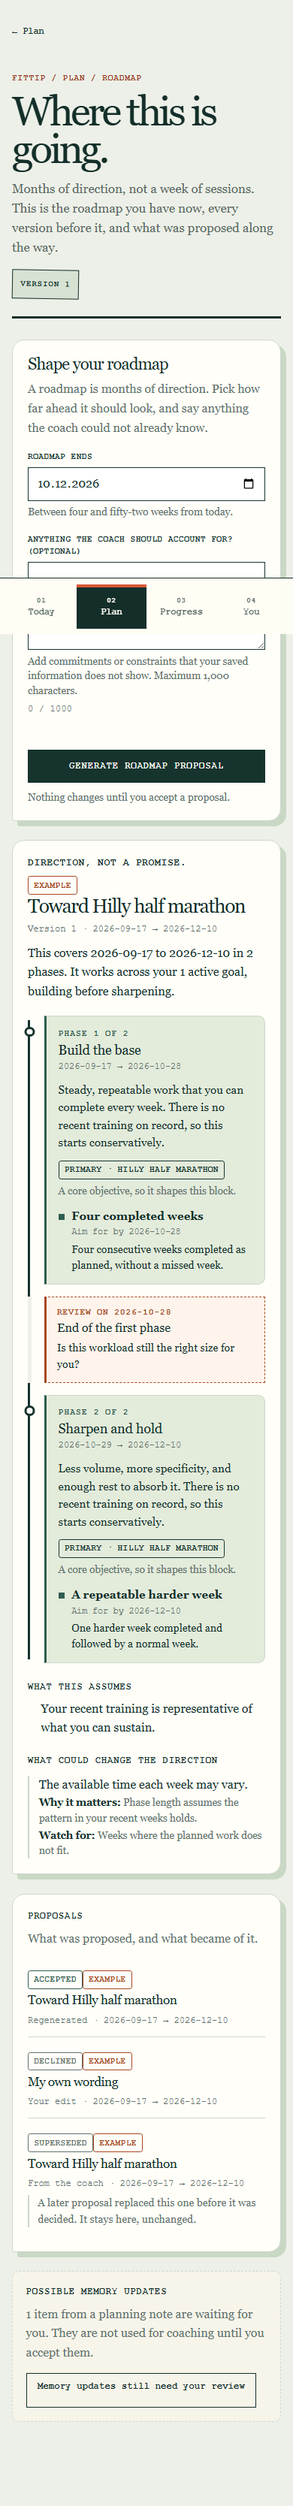
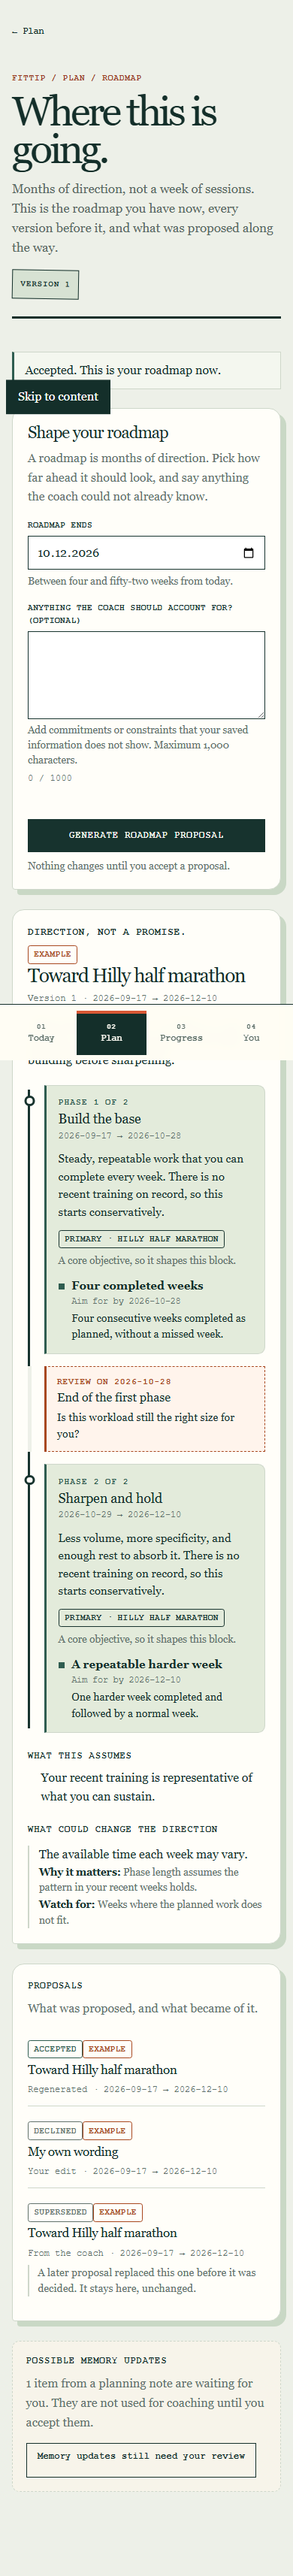
fix(m3-15f): drop the recovery marker when the reload it explains is cancelled
The browser flow caught it. A watchdog verdict arms a reload behind a readable
notice and sets the session marker that explains it afterwards. When the lost
transition then lands inside that half-second window the timeout is cleared and
no reload happens — but the marker stayed set, and the next control to mount
with nothing submitted told the owner "this page was reloaded" when it was not.
The regeneration's own success sentence and that false explanation were on
screen together, which is what the run reported.

The marker now goes with the cancelled timeout. Only a reload that actually
fired leaves it standing, and that path replaces the document rather than
running this cleanup.

The flow's outcome helper takes `.first()`: the assertion is that the surface
says one true thing after a write, not that it says exactly one thing.

Four consecutive local runs against `build` + `start` on port 3026, all green,
11-15s each. The evidence screenshots are regenerated from those runs and now
show the restored sentences.

diff --git a/src/components/roadmap/use-roadmap-write.ts b/src/components/roadmap/use-roadmap-write.ts
@@ -161,6 +161,7 @@ function useLostRenderRecovery(pending: boolean, submission: number): boolean {
     markRecovered(false);
     const submittedAt = performance.now();
     let reload = 0;
+    let reloading = false;
     const interval = window.setInterval(() => {
       // `unconfirmed` is deliberately ignored rather than acted on: this
       // surface takes the lost-render half alone, so a request that has simply
@@ -175,10 +176,10 @@ function useLostRenderRecovery(pending: boolean, submission: number): boolean {
       window.clearInterval(interval);
       setLostFor(key);
       markRecovered(true);
-      reload = window.setTimeout(
-        () => window.location.reload(),
-        RECOVERY_NOTICE_MS,
-      );
+      reload = window.setTimeout(() => {
+        reloading = true;
+        window.location.reload();
+      }, RECOVERY_NOTICE_MS);
     }, WATCH_INTERVAL_MS);
 
     return () => {
@@ -188,6 +189,12 @@ function useLostRenderRecovery(pending: boolean, submission: number): boolean {
       // lost transition landed inside the notice window and the result is
       // already on screen.
       window.clearTimeout(reload);
+      // And in that second case the marker has to go with it. It explains a
+      // reload that then never happened, and the next control to mount with
+      // nothing submitted would tell the owner this page was reloaded when it
+      // was not. Only a reload that actually fired leaves it standing, and that
+      // path replaces the document rather than running this cleanup.
+      if (reload !== 0 && !reloading) markRecovered(false);
       consumedAt.current = respondedAt.current;
     };
   }, [key, pending]);

diff --git a/e2e/m3-15f-roadmap.spec.ts b/e2e/m3-15f-roadmap.spec.ts
@@ -250,7 +250,8 @@ async function expectOutcome(page: Page, sentence: string) {
     page
       .locator("[data-roadmap-outcome]")
       .getByText(sentence, { exact: true })
-      .or(page.locator('[data-roadmap-notice="recovered"]')),
+      .or(page.locator('[data-roadmap-notice="recovered"]'))
+      .first(),
   ).toBeVisible();
 }
 
